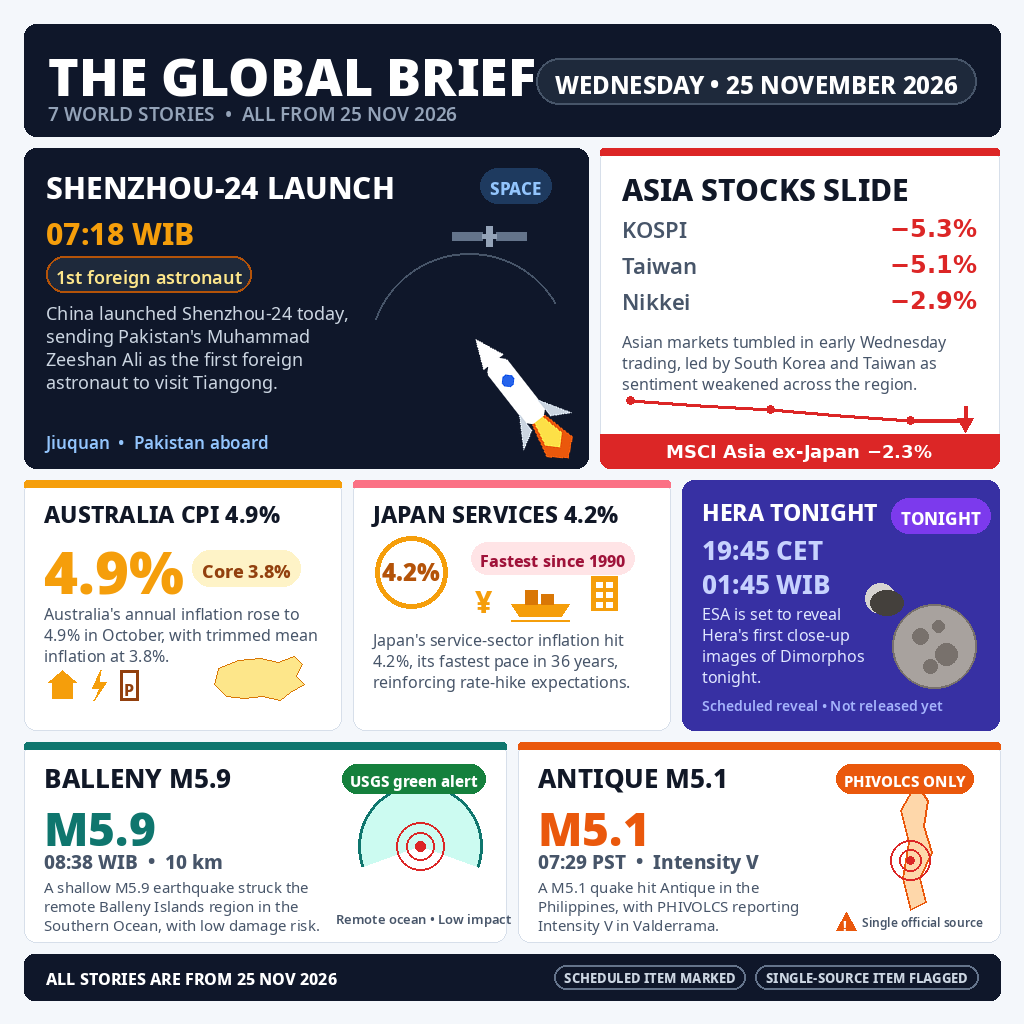
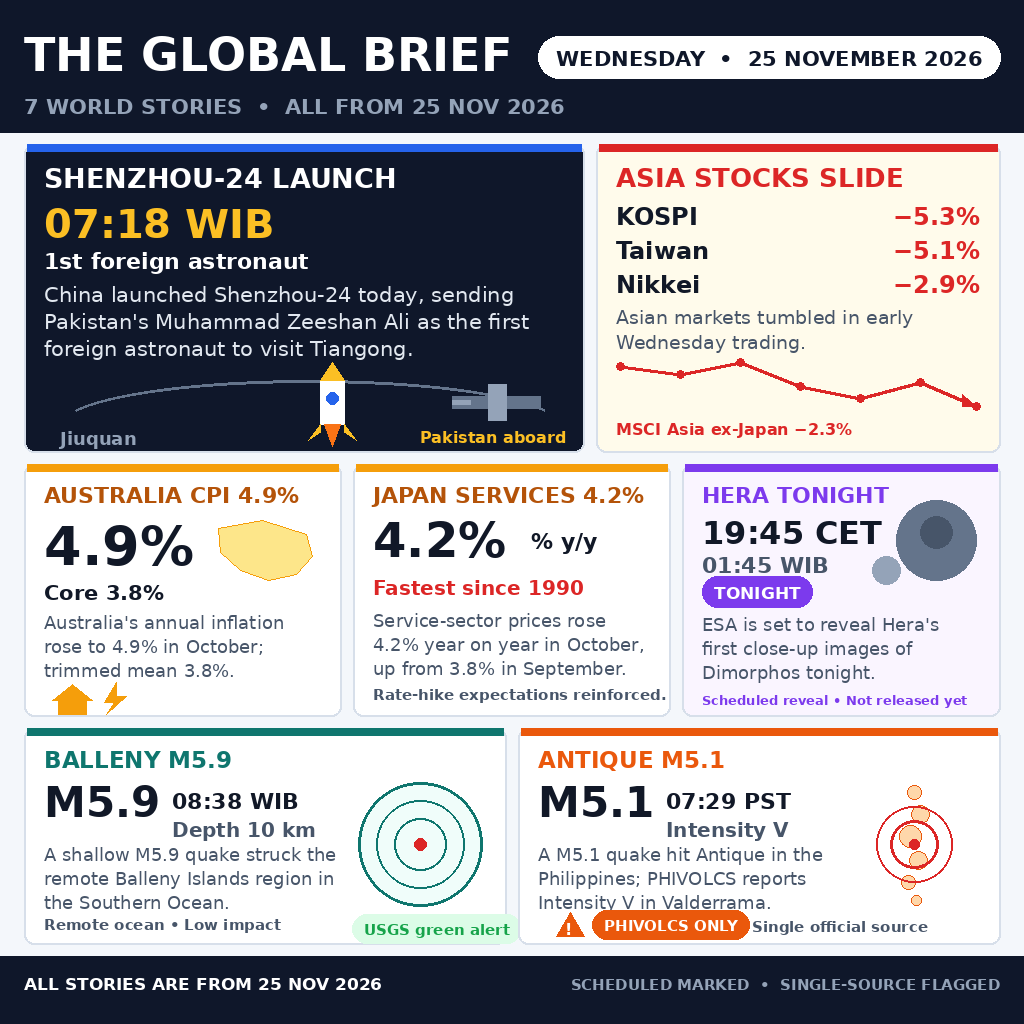
Add files via upload

diff --git a/main.ts b/main.ts
@@ -1,9 +1,21 @@
-import { copyFileSync, mkdirSync } from "node:fs";
+import { copyFileSync, existsSync, mkdirSync, statSync } from "node:fs";
 import { dirname, join } from "node:path";
 import { fileURLToPath } from "node:url";
 
+// news-image-20261125 v2 — "THE GLOBAL BRIEF", 25 November 2026.
+// The image is drawn by render.py (same repo) and committed as entry.png;
+// this program copies it to the grader output directory.
 const here = dirname(fileURLToPath(import.meta.url));
-const outDir = process.env.MAKEFUN_OUTPUT_DIR ?? "/output";
+const source = join(here, "entry.png");
+const outDir = process.env.MAKEFUN_OUTPUT ?? "/output";
+
+if (!existsSync(source)) {
+  throw new Error(`entry.png not found next to main.ts: ${source}`);
+}
 mkdirSync(outDir, { recursive: true });
-copyFileSync(join(here, "entry.png"), join(outDir, "entry.png"));
-console.log("entry.png copied to", join(outDir, "entry.png"));
+const target = join(outDir, "entry.png");
+copyFileSync(source, target);
+// Guard against a partial copy: the output must be byte-for-byte the source.
+if (statSync(target).size !== statSync(source).size) {
+  throw new Error(`entry.png copy incomplete: ${target}`);
+}

diff --git a/render.py b/render.py
@@ -1,0 +1,300 @@
+#!/usr/bin/env python3
+"""Render THE GLOBAL BRIEF — 25 November 2026 (news-image-20261125 v2).
+
+Draws a 1024x1024 editorial briefing board from the verified 25 Nov 2026
+stories in research-25nov-strict.md. Pure PIL, no network, deterministic.
+Only figures present in the strict research file are shown; unverified
+numbers from the v1 design brief ("3rd Tiangong trip", housing/electricity/
+fuel micro-labels, "Ocean freight +120.4%") are deliberately left out.
+"""
+import os
+from PIL import Image, ImageDraw, ImageFont
+
+W = H = 1024
+MARGIN = 24
+GUTTER = 12
+
+# palette
+BG = (244, 247, 251)
+INK = (17, 24, 39)
+MUTED = (71, 85, 105)
+FAINT = (100, 116, 139)
+LINE = (215, 223, 234)
+NAVY = (15, 23, 42)
+NAVY_SOFT = (30, 41, 59)
+WHITE = (255, 255, 255)
+CREAM = (255, 251, 235)
+BLUE = (37, 99, 235)
+RED = (220, 38, 38)
+RED_SOFT = (254, 226, 226)
+AMBER = (245, 158, 11)
+AMBER_DARK = (180, 83, 9)
+PURPLE = (124, 58, 237)
+PURPLE_SOFT = (237, 233, 254)
+TEAL = (15, 118, 110)
+TEAL_SOFT = (204, 251, 241)
+ORANGE = (234, 88, 12)
+GREEN = (22, 163, 74)
+GREEN_SOFT = (220, 252, 231)
+GRAY = (148, 163, 184)
+
+FB = "/usr/share/fonts/truetype/dejavu/DejaVuSans-Bold.ttf"
+FR = "/usr/share/fonts/truetype/dejavu/DejaVuSans.ttf"
+
+
+def font(path, size):
+    return ImageFont.truetype(path, size)
+
+
+def wrap(draw, text, fnt, max_w):
+    words = text.split()
+    lines, cur = [], ""
+    for w in words:
+        t = (cur + " " + w).strip()
+        if draw.textlength(t, font=fnt) <= max_w:
+            cur = t
+        else:
+            if cur:
+                lines.append(cur)
+            cur = w
+    if cur:
+        lines.append(cur)
+    return lines
+
+
+def text_block(draw, x, y, text, fnt, color, max_w, leading=None):
+    """Draw wrapped text; return y just below the last line."""
+    lines = wrap(draw, text, fnt, max_w)
+    lh = leading or int(fnt.size * 1.28)
+    for ln in lines:
+        draw.text((x, y), ln, font=fnt, fill=color)
+        y += lh
+    return y
+
+
+def panel(draw, box, fill, accent):
+    x0, y0, x1, y1 = box
+    draw.rounded_rectangle(box, radius=10, fill=fill, outline=LINE, width=2)
+    draw.rectangle([x0 + 3, y0, x1 - 3, y0 + 7], fill=accent)
+
+
+def pill(draw, x, y, text, fnt, fg, bg):
+    w = int(draw.textlength(text, font=fnt)) + 24
+    h = fnt.size + 14
+    draw.rounded_rectangle([x, y, x + w, y + h], radius=h // 2, fill=bg)
+    draw.text((x + 12, y + 7), text, font=fnt, fill=fg)
+    return w
+
+
+def header(draw):
+    draw.rectangle([0, 0, W, 132], fill=NAVY)
+    draw.text((MARGIN, 28), "THE GLOBAL BRIEF", font=font(FB, 46), fill=WHITE)
+    pill_text = "WEDNESDAY  \u2022  25 NOVEMBER 2026"
+    pf = font(FB, 21)
+    pw = int(draw.textlength(pill_text, font=pf)) + 36
+    px = W - MARGIN - pw
+    draw.rounded_rectangle([px, 36, W - MARGIN, 36 + 42], radius=21, fill=WHITE)
+    draw.text((px + 18, 46), pill_text, font=pf, fill=NAVY)
+    draw.text((MARGIN, 94), "7 WORLD STORIES  \u2022  ALL FROM 25 NOV 2026",
+              font=font(FB, 21), fill=(148, 163, 184))
+
+
+def footer(draw):
+    draw.rectangle([0, 956, W, H], fill=NAVY)
+    draw.text((MARGIN, 974), "ALL STORIES ARE FROM 25 NOV 2026",
+              font=font(FB, 17), fill=WHITE)
+    right = "SCHEDULED MARKED  \u2022  SINGLE-SOURCE FLAGGED"
+    rf = font(FB, 15)
+    rw = draw.textlength(right, font=rf)
+    draw.text((W - MARGIN - rw, 976), right, font=rf, fill=(148, 163, 184))
+
+
+# ---- row 1: heroes (y 144..452) -------------------------------------------
+
+def panel_shenzhou(draw):
+    box = (MARGIN, 144, 584, 452)
+    panel(draw, box, NAVY, BLUE)
+    x, y = 44, 162
+    draw.text((x, y), "SHENZHOU-24 LAUNCH", font=font(FB, 27), fill=WHITE)
+    draw.text((x, 200), "07:18 WIB", font=font(FB, 40), fill=(251, 191, 36))
+    draw.text((x, 248), "1st foreign astronaut", font=font(FB, 22), fill=WHITE)
+    text_block(draw, x, 282,
+               "China launched Shenzhou-24 today, sending Pakistan's "
+               "Muhammad Zeeshan Ali as the first foreign astronaut to "
+               "visit Tiangong.", font(FR, 21), (226, 232, 240), 512, leading=27)
+    # visual band: orbit arc, upright rocket, station silhouette
+    draw.arc([60, 380, 560, 470], start=200, end=340, fill=(100, 116, 139), width=3)
+    # rocket body (upright)
+    draw.rectangle([320, 380, 344, 424], fill=WHITE)
+    draw.polygon([(320, 380), (344, 380), (332, 362)], fill=(251, 191, 36))
+    draw.ellipse([326, 392, 338, 404], fill=BLUE)
+    draw.polygon([(320, 424), (308, 440), (320, 432)], fill=(251, 191, 36))
+    draw.polygon([(344, 424), (356, 440), (344, 432)], fill=(251, 191, 36))
+    # flame
+    draw.polygon([(324, 424), (340, 424), (332, 446)], fill=(249, 115, 22))
+    # station silhouette: small modules
+    draw.rectangle([452, 396, 540, 408], fill=(100, 116, 139))
+    draw.rectangle([488, 384, 506, 420], fill=(148, 163, 184))
+    draw.rectangle([452, 400, 470, 404], fill=(148, 163, 184))
+    draw.text((60, 428), "Jiuquan", font=font(FB, 18), fill=(148, 163, 184))
+    draw.text((420, 428), "Pakistan aboard", font=font(FB, 16), fill=(251, 191, 36))
+
+
+def panel_stocks(draw):
+    box = (596, 144, 1000, 452)
+    panel(draw, box, CREAM, RED)
+    x = 616
+    draw.text((x, 162), "ASIA STOCKS SLIDE", font=font(FB, 26), fill=RED)
+    rows = [("KOSPI", "\u22125.3%"), ("Taiwan", "\u22125.1%"), ("Nikkei", "\u22122.9%")]
+    yy = 202
+    for name, val in rows:
+        draw.text((x, yy), name, font=font(FB, 24), fill=INK)
+        vw = draw.textlength(val, font=font(FB, 24))
+        draw.text((980 - vw, yy), val, font=font(FB, 24), fill=RED)
+        yy += 34
+    text_block(draw, x, 306,
+               "Asian markets tumbled in early Wednesday trading.",
+               font(FR, 19), MUTED, 364, leading=25)
+    # falling line chart
+    pts = [(620, 366), (680, 374), (740, 362), (800, 386), (860, 398), (920, 382),
+           (976, 406)]
+    draw.line(pts, fill=RED, width=4, joint="curve")
+    for px, py in pts:
+        draw.ellipse([px - 4, py - 4, px + 4, py + 4], fill=RED)
+    draw.polygon([(976, 406), (962, 394), (962, 406)], fill=RED)
+    draw.text((x, 420), "MSCI Asia ex-Japan \u22122.3%", font=font(FB, 16), fill=RED)
+
+
+# ---- row 2: support panels (y 464..716) ------------------------------------
+
+def panel_australia(draw):
+    box = (MARGIN, 464, 341, 716)
+    panel(draw, box, WHITE, AMBER)
+    x = 44
+    draw.text((x, 482), "AUSTRALIA CPI 4.9%", font=font(FB, 22), fill=AMBER_DARK)
+    draw.text((x, 514), "4.9%", font=font(FB, 54), fill=INK)
+    # small Australia silhouette (simplified polygon) right of the number
+    draw.polygon([(218, 528), (262, 520), (306, 534), (312, 556), (296, 574),
+                  (268, 580), (240, 570), (220, 552)], fill=(253, 230, 138),
+                 outline=AMBER)
+    draw.text((x, 580), "Core 3.8%", font=font(FB, 21), fill=INK)
+    text_block(draw, x, 612,
+               "Australia's annual inflation rose to 4.9% in October; "
+               "trimmed mean 3.8%.",
+               font(FR, 18), MUTED, 277, leading=24)
+    # house + lightning icons
+    draw.polygon([(52, 700), (72, 684), (92, 700)], fill=AMBER)
+    draw.rectangle([58, 700, 86, 714], fill=AMBER)
+    draw.polygon([(116, 682), (104, 702), (114, 702), (106, 714), (126, 696),
+                  (116, 696)], fill=AMBER)
+
+
+def panel_japan(draw):
+    box = (353, 464, 670, 716)
+    panel(draw, box, WHITE, AMBER)
+    x = 373
+    draw.text((x, 482), "JAPAN SERVICES 4.2%", font=font(FB, 22), fill=AMBER_DARK)
+    draw.text((x, 512), "4.2%", font=font(FB, 48), fill=INK)
+    draw.text((x + 158, 528), "% y/y", font=font(FB, 22), fill=INK)
+    draw.text((x, 576), "Fastest since 1990", font=font(FB, 20), fill=RED)
+    text_block(draw, x, 610,
+               "Service-sector prices rose 4.2% year on year in October, "
+               "up from 3.8% in September.", font(FR, 18), MUTED, 277, leading=24)
+    draw.text((x, 686), "Rate-hike expectations reinforced.",
+              font=font(FB, 15), fill=MUTED)
+
+
+def panel_hera(draw):
+    box = (682, 464, 1000, 716)
+    panel(draw, box, (250, 245, 255), PURPLE)
+    x = 702
+    draw.text((x, 482), "HERA TONIGHT", font=font(FB, 22), fill=PURPLE)
+    draw.text((x, 514), "19:45 CET", font=font(FB, 32), fill=INK)
+    draw.text((x, 552), "01:45 WIB", font=font(FB, 22), fill=MUTED)
+    pill(draw, x, 576, "TONIGHT", font(FB, 17), WHITE, PURPLE)
+    text_block(draw, x, 614,
+               "ESA is set to reveal Hera's first close-up images of "
+               "Dimorphos tonight.", font(FR, 18), MUTED, 278, leading=24)
+    # asteroid + eclipse shadow (top-right corner)
+    draw.ellipse([896, 500, 976, 580], fill=(100, 116, 139))
+    draw.ellipse([920, 516, 952, 548], fill=(71, 85, 105))
+    draw.ellipse([872, 556, 900, 584], fill=(148, 163, 184))
+    draw.text((x, 692), "Scheduled reveal \u2022 Not released yet",
+              font=font(FB, 13), fill=PURPLE)
+
+
+# ---- row 3: wide panels (y 728..944) ----------------------------------------
+
+def panel_balleney(draw):
+    box = (MARGIN, 728, 506, 944)
+    panel(draw, box, WHITE, TEAL)
+    x = 44
+    draw.text((x, 746), "BALLENY M5.9", font=font(FB, 23), fill=TEAL)
+    draw.text((x, 778), "M5.9", font=font(FB, 42), fill=INK)
+    draw.text((x + 128, 788), "08:38 WIB", font=font(FB, 22), fill=INK)
+    draw.text((x + 128, 818), "Depth 10 km", font=font(FB, 20), fill=MUTED)
+    text_block(draw, x, 844,
+               "A shallow M5.9 quake struck the remote Balleny Islands "
+               "region in the Southern Ocean.",
+               font(FR, 18), MUTED, 300, leading=24)
+    # south-pole globe slice with epicentre rings (right side)
+    cx, cy = 420, 844
+    draw.ellipse([cx - 62, cy - 62, cx + 62, cy + 62], fill=(240, 253, 250),
+                 outline=TEAL, width=3)
+    draw.arc([cx - 62, cy - 62, cx + 62, cy + 62], start=180, end=360,
+             fill=TEAL, width=3)
+    draw.ellipse([cx - 26, cy - 26, cx + 26, cy + 26], outline=TEAL, width=2)
+    draw.ellipse([cx - 44, cy - 44, cx + 44, cy + 44], outline=TEAL, width=2)
+    draw.ellipse([cx - 6, cy - 6, cx + 6, cy + 6], fill=RED)
+    pill(draw, 352, 914, "USGS green alert", font(FB, 15), GREEN, GREEN_SOFT)
+    draw.text((x, 916), "Remote ocean \u2022 Low impact", font=font(FB, 15), fill=MUTED)
+
+
+def panel_antique(draw):
+    box = (518, 728, 1000, 944)
+    panel(draw, box, WHITE, ORANGE)
+    x = 538
+    draw.text((x, 746), "ANTIQUE M5.1", font=font(FB, 23), fill=ORANGE)
+    draw.text((x, 778), "M5.1", font=font(FB, 42), fill=INK)
+    draw.text((x + 128, 788), "07:29 PST", font=font(FB, 22), fill=INK)
+    draw.text((x + 128, 818), "Intensity V", font=font(FB, 20), fill=MUTED)
+    text_block(draw, x, 844,
+               "A M5.1 quake hit Antique in the Philippines; PHIVOLCS "
+               "reports Intensity V in Valderrama.",
+               font(FR, 18), MUTED, 300, leading=24)
+    # Philippines archipelago dots + quake rings (right side)
+    cx, cy = 914, 844
+    for dx, dy, r in [(0, -52, 7), (6, -30, 9), (-4, -8, 11), (4, 16, 9),
+                      (-6, 38, 7), (2, 56, 5)]:
+        draw.ellipse([cx + dx - r, cy + dy - r, cx + dx + r, cy + dy + r],
+                     fill=(254, 215, 170), outline=ORANGE)
+    draw.ellipse([cx - 24, cy - 24, cx + 24, cy + 24], outline=RED, width=3)
+    draw.ellipse([cx - 38, cy - 38, cx + 38, cy + 38], outline=RED, width=2)
+    draw.ellipse([cx - 5, cy - 5, cx + 5, cy + 5], fill=RED)
+    # warning triangle
+    draw.polygon([(556, 936), (570, 912), (584, 936)], fill=ORANGE)
+    draw.text((565, 920), "!", font=font(FB, 16), fill=WHITE)
+    pill(draw, 592, 910, "PHIVOLCS ONLY", font(FB, 15), WHITE, ORANGE)
+    draw.text((752, 918), "Single official source", font=font(FB, 15), fill=MUTED)
+
+
+def render():
+    img = Image.new("RGB", (W, H), BG)
+    draw = ImageDraw.Draw(img)
+    header(draw)
+    panel_shenzhou(draw)
+    panel_stocks(draw)
+    panel_australia(draw)
+    panel_japan(draw)
+    panel_hera(draw)
+    panel_balleney(draw)
+    panel_antique(draw)
+    footer(draw)
+    return img
+
+
+if __name__ == "__main__":
+    out = os.environ.get("RENDER_OUTPUT") or os.path.join(
+        os.path.dirname(os.path.abspath(__file__)), "entry.png")
+    render().save(out, format="PNG")
+    print("wrote", out)
